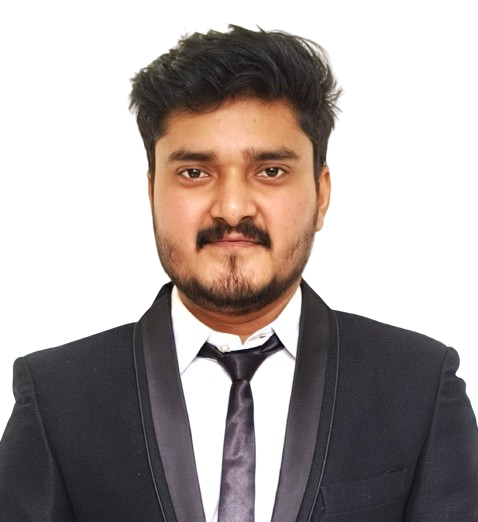
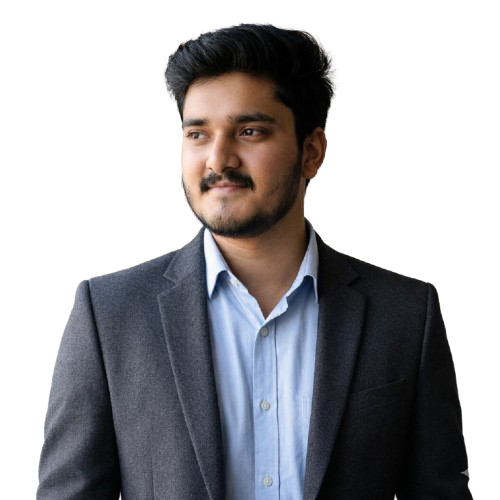
feat: refresh portfolio with updated bio, work experience, and project highlights

diff --git a/src/constants/index.ts b/src/constants/index.ts
@@ -166,12 +166,12 @@ const experiences: TExperience[] = [
     iconBg: "#E6DEDD",
     date: "January 2025 – June 2025",
     points: [
-      "Working at Botsync, a robotics company specializing in AMRs to transport goods up to 1,500 kg in warehouses.",
-      "Designed a dynamic theme in FMS using MUI and inline CSS, enhancing 50+ UI components.",
-      "Developed strong error handling skills, increasing system reliability and cutting debug time by 30%.",
-      "Optimized API performance using the Inspect Network tab, reducing response times by 25%.",
-      "Learned essential Git commands and workflows, managing 50+ commits and ensuring efficient version control.",
-    ],
+      "Customized 50+ components in the Fleet Management System using MUI, improving UI responsiveness.",
+      "Strengthened error handling mechanisms, increasing system reliability and boosting efficiency by 30%.",
+      "Optimized API payloads, reducing frontend response times by 25% and improving overall performance.",
+      "Fixed a high-priority P0 dashboard bug, reducing system crashes and user logouts by 40%.",
+      "Reviewed 40+ pull requests and resolved merge conflicts, improving code quality and team collaboration.",
+      ],      
   },
   {
     title: "Web Developer Intern",
@@ -180,26 +180,26 @@ const experiences: TExperience[] = [
     iconBg: "#D1E8FF", // Use a distinct background color
     date: "June 2025 – August 2025",
     points: [
-      "Engineered full-stack website using Laravel (PHP) and SQL, with 10+ features from authentication to management.",
-      "Improved usability by fixing 15+ UI bugs and enhancing responsiveness, resulting in a 30% better user experience.",
-      "Boosted engagement by integrating WhatsApp support, strengthening communication and interaction by 40%+.",
-      "Handled backend operations by developing and securing 5+ API endpoints, which improved functionality.",
-      "Ensured SQL database reliability and performance through query optimization, achieving an estimated 99.9% uptime.",
-    ],
+      "Engineered a full-stack website using Laravel (PHP) and SQL, implementing 10+ features from authentication to management.",
+      "Enhanced user experience by resolving 15+ UI issues and improving responsiveness, resulting in a 30% usability improvement.",
+      "Integrated WhatsApp support, increasing user engagement and communication efficiency by 40%+.",
+      "Developed and secured 5+ API endpoints, expanding backend functionality and system reliability.",
+      "Optimized SQL queries to improve database performance and maintain an estimated 99.9% uptime.",
+      ],      
   },
   {
-    title: "Full Stack Developer Intern",
+    title: "Software Engineer",
     companyName: "Avaamo",
     icon: avaamo, // Make sure you have imported this icon
     iconBg: "#D1E8FF", // Use a distinct background color
     date: "July 2025 – Present",
     points: [
-      "Architected a task manager using Redis and BullMQ, with Webhook callbacks, slashing latency by 90%.",
-      "Fortified 25+ API endpoints by implementing validation and Token Bucket rate limiting to ensure stability.",
-      "Resolved 15+ critical bugs, from backend Redis worker errors to frontend conversation logic, improving reliability.",
-      "Engineered automated data management, authoring cron jobs purging records, improving database performance 15%.",
-      "Enhanced efficiency, authoring 20+ Jest tests, creating seed scripts, and containerizing environment with Docker.",
-    ],
+      "Built Agent Assist, Auto QA, and Try Avaamo, supporting 10+ pre-sales demos and post-sales deployments.",
+      "Automated workflows using cron jobs, Redis, and BullMQ, removing stale data and improving system performance.",
+      "Secured 25+ API endpoints with validation and rate limiting, enhancing stability under high traffic.",
+      "Leveraged AWS EC2, S3, and Docker to deploy scalable applications, improving reliability and efficiency.",
+      "Resolved 15+ production issues and authored 20+ Jest test suites, strengthening code quality and system reliability.",
+      ],      
   },
 ];
 

diff --git a/src/constants/config.ts b/src/constants/config.ts
@@ -46,7 +46,8 @@ export const config: TConfig = {
   },
   hero: {
     name: "Shubham Jaiswal",
-    p: ["A Web Developer and a", "Competitive Programmer"],
+    // p: ["A Web Developer and a", "Competitive Programmer"],
+    p: ["A Software Engineer", "Building Scalable Solutions"],
   },
   contact: {
     p: "Get in touch",
@@ -67,7 +68,7 @@ export const config: TConfig = {
     about: {
       p: "Introduction",
       h2: "Overview.",
-      content: `I am a Computer Science graduate from IIIT Bhagalpur with an 8.35/10 CGPA. Currently working as a Full Stack Developer at Avaamo, I previously worked at BotSync as a Software Developer and remotely at Telos Digital Solutions as a Web Developer. I specialize in building dynamic, animated websites using GSAP with the MERN stack, and my tech stack also includes Redis, Docker, Git, and MQ. Proficient in C, C++, and JavaScript, I’ve solved 3500+ algorithmic problems across LeetCode, GeeksforGeeks, CodeChef, and Codeforces.`,
+      content: `I am a Computer Science graduate from IIIT Bhagalpur with an 8.35/10 CGPA. Currently working as a Software Engineer at Avaamo, I build scalable applications, automate workflows, and develop reliable systems using modern technologies. Previously, I worked at BotSync as a Software Developer Intern and at Telos Digital Solutions as a Freelance Web Developer. My expertise spans full-stack development, system design fundamentals, and cloud technologies, with hands-on experience in React, Next.js, Node.js, TypeScript, Redis, Docker, AWS, and PostgreSQL. Passionate about problem-solving, I have solved 3500+ algorithmic problems across LeetCode, GeeksforGeeks, CodeChef, and Codeforces.`,
     },
     experience: {
       p: "What I have done so far",

diff --git a/src/components/sections/About.tsx b/src/components/sections/About.tsx
@@ -70,7 +70,7 @@ const About = () => {
 
           {/* Animated Resume Button */}
           <motion.a
-            href="https://drive.google.com/file/d/1OUOCXBzMjjDAoV2587n-1QwrFRmMoUjR/view?usp=drive_link"
+            href="https://drive.google.com/file/d/12mLkQBPpLmZTEEODnj7PO7f_tKPQQquA/view?usp=drive_link"
             target="_blank"
             rel="noopener noreferrer"
             whileHover={{ scale: 1.1, boxShadow: "0px 0px 15px rgba(145, 94, 255, 0.7)", transform: "translateY(-40px) scale(1.1)" }}